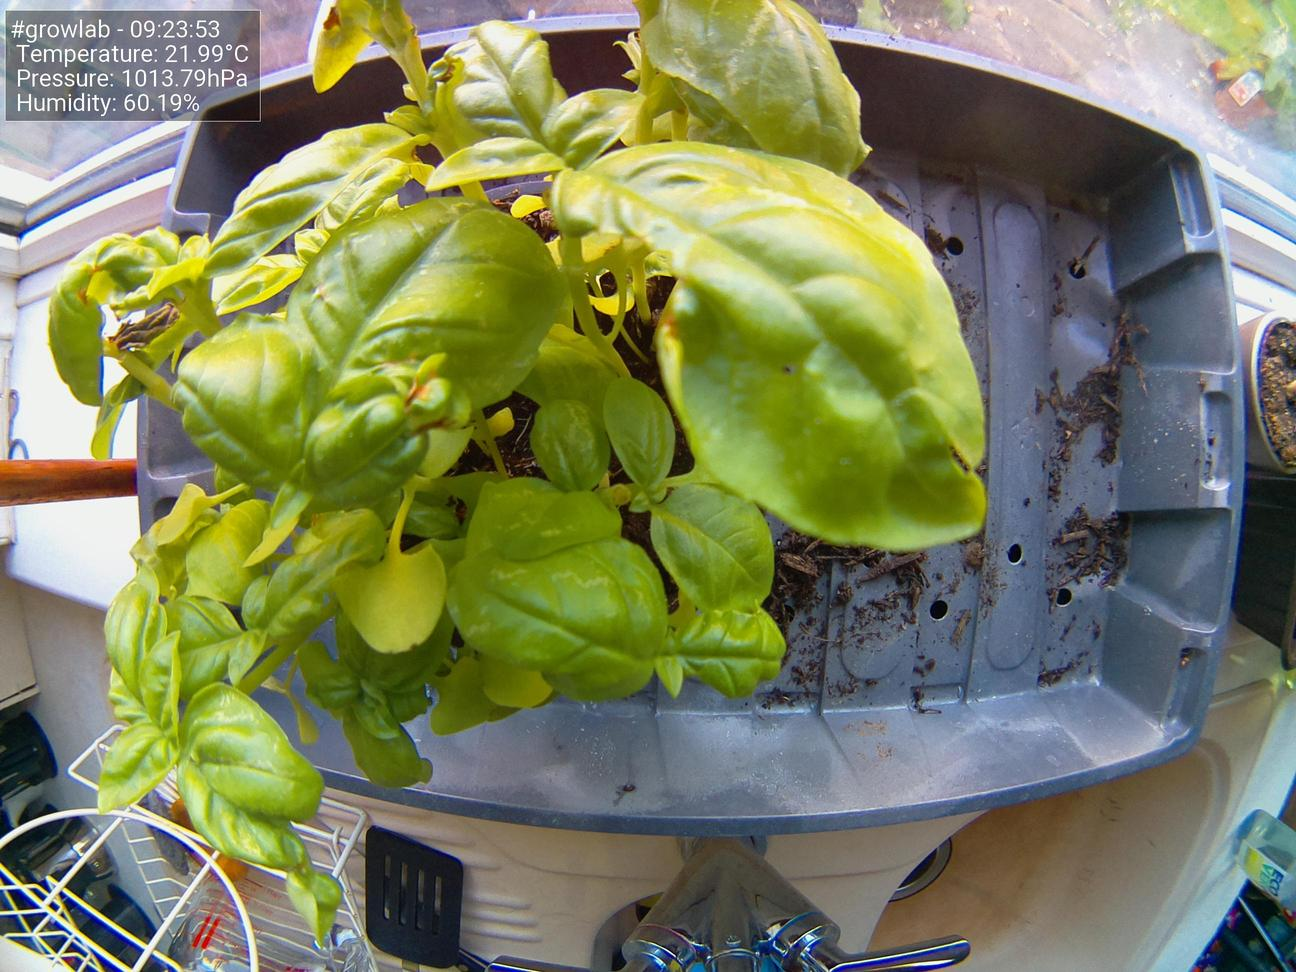
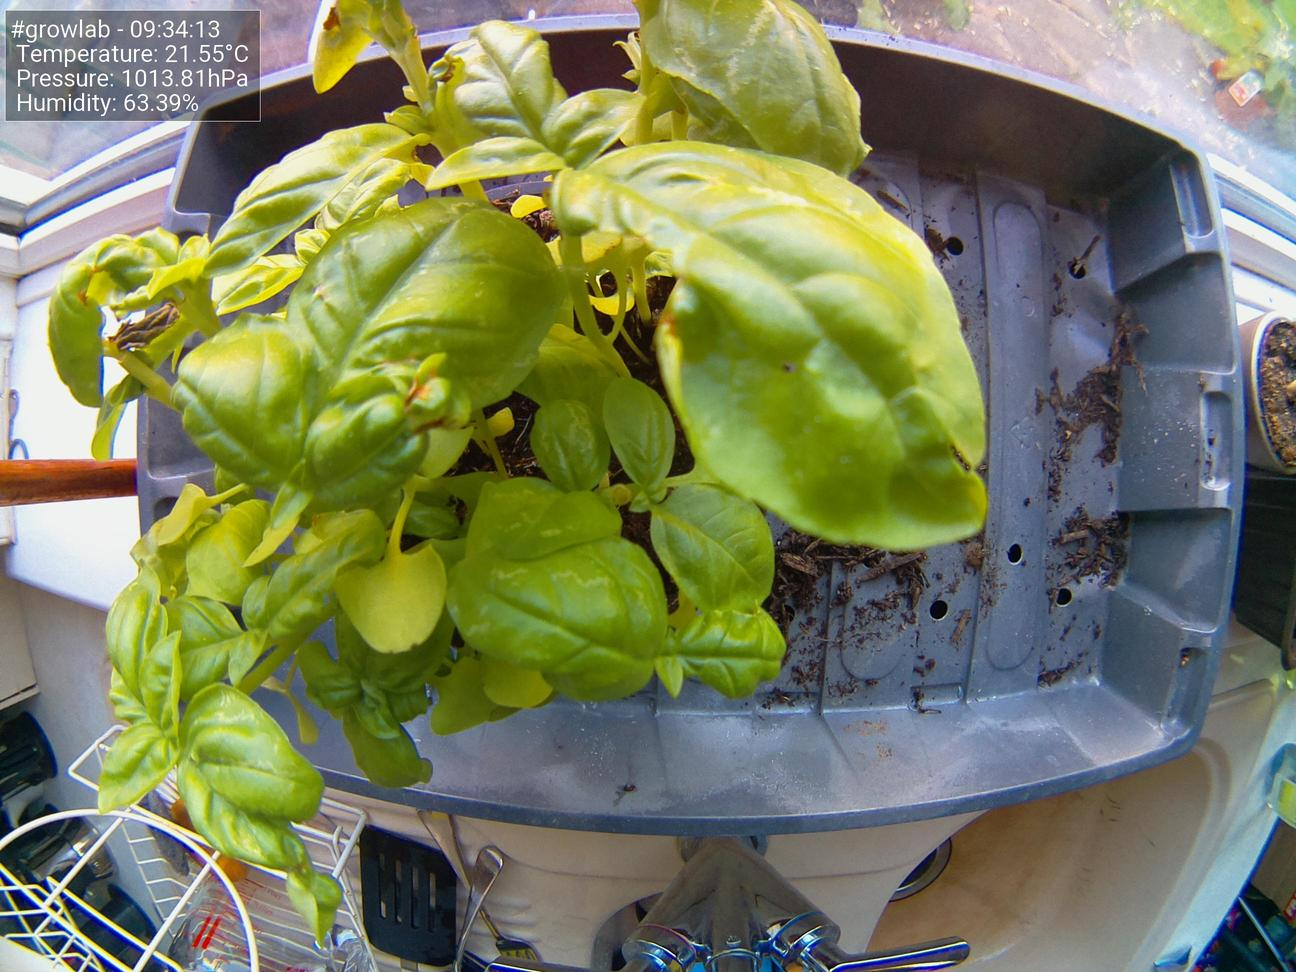
Update images at Wed  4 Aug 09:34:21 BST 2021

diff --git a/docs/index.html b/docs/index.html
@@ -47,19 +47,19 @@
                         <tbody>
                             <tr>
                                 <td>Time</td>
-                                <td>09:23:53</td>
+                                <td>09:34:13</td>
                             </tr>
                             <tr>
                                 <td>Temperature</td>
-                                <td>21.99°C</td>
+                                <td>21.55°C</td>
                             </tr>
                             <tr>
                                 <td>Humidity</td>
-                                <td>60.19%</td>
+                                <td>63.39%</td>
                             </tr>
                             <tr>
                                 <td>Pressure</td>
-                                <td>1013.79hPa</td>
+                                <td>1013.81hPa</td>
                             </tr>
                         </tbody>
                     </table>
@@ -67,7 +67,7 @@
 
                 <h5>Latest image</h5>
                 <div style="width: 85%;">
-                            <img class="figure-img img-fluid rounded" src="./preview.jpg?uid=1628065442.6683216">
+                            <img class="figure-img img-fluid rounded" src="./preview.jpg?uid=1628066061.5148528">
                 </div>
             </div>
         </div>
